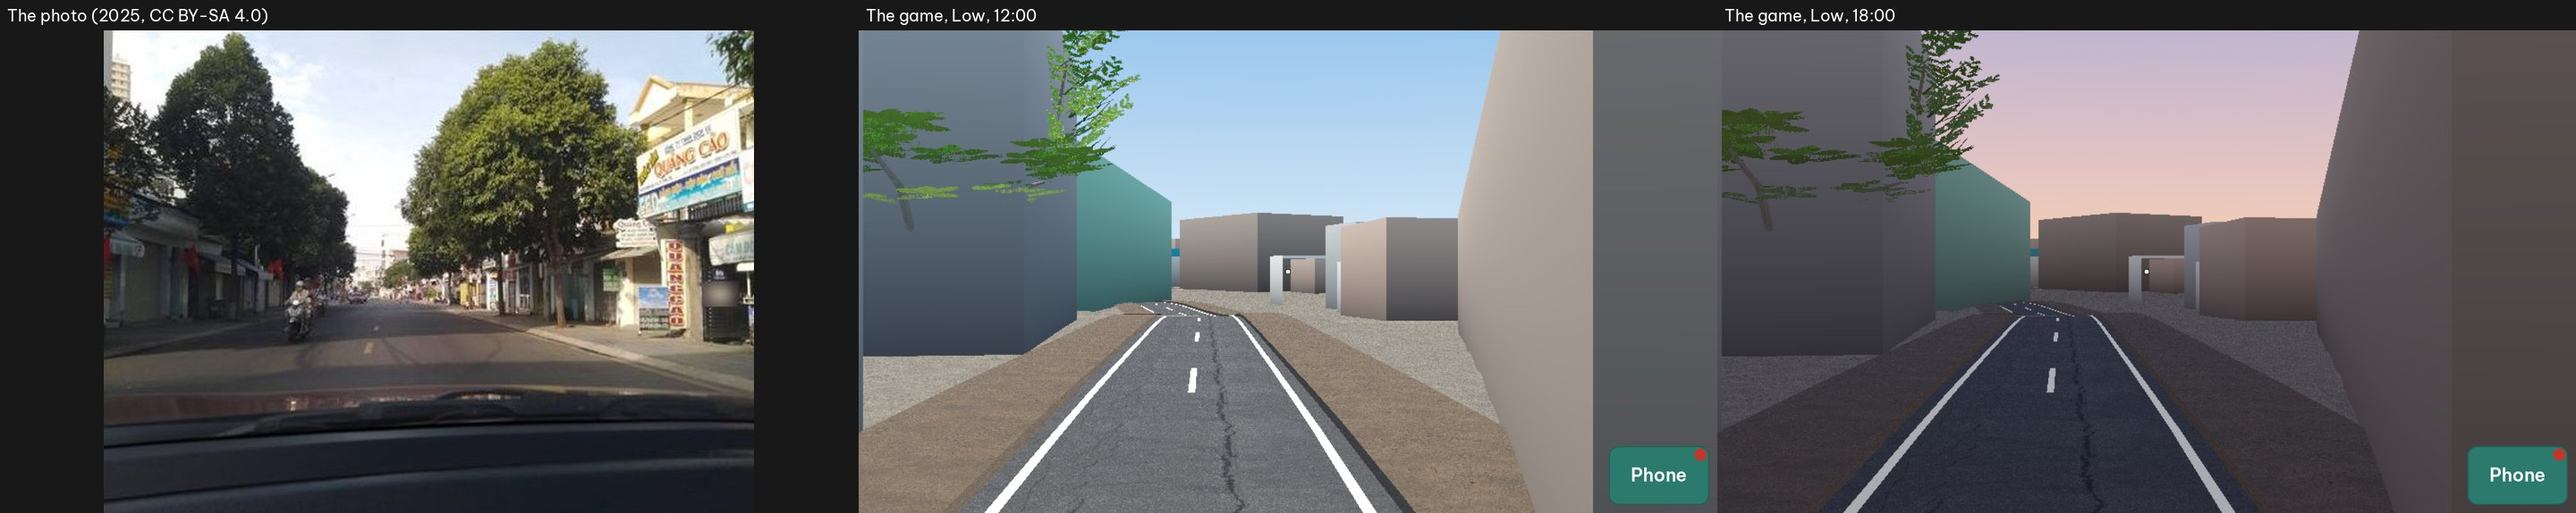
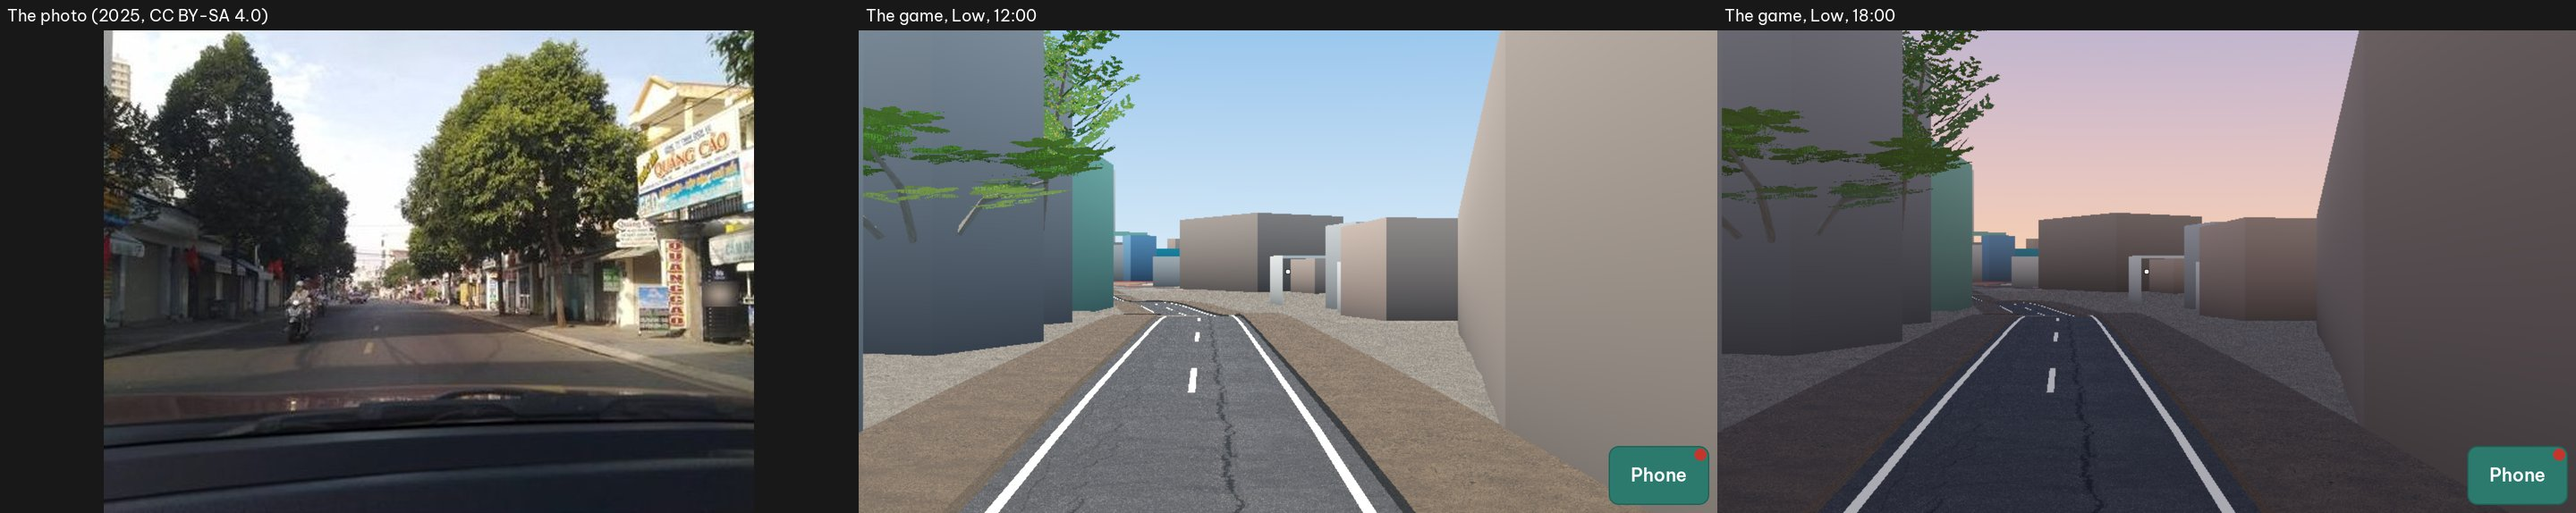
Write the notes of the first part of phase 3, start the web page of Trương Công Định along the street, and make the views of PT-68 again
- data/geo/starts.json: a start can name its OSM way; the start of Trương
  Công Định is the middle of its first way, along the street (it looked at
  the front of a house at a few meters).
- Plan 0009: the builder notes of R16 (the URLs, the pack, the times, the
  memory, the proposed cuts, and the warning of the engine), D-0009-27,
  D-0009-28 (open), the houses of the first street, and World plan 0020.
- AGENTS.md: the houses of World on the streets and PT-79; the warning of
  the web engine on occlusion culling comes at its start.

diff --git a/docs/plans/0009-houses-on-the-lots.md b/docs/plans/0009-houses-on-the-lots.md
@@ -2,7 +2,7 @@
 
 | Field | Value |
 |---|---|
-| Status | In progress: phases 1a, 1b, and 2 are done (2026-11-21), and the corrections of audits 4 and 5 (2026-11-22); phase 3 waits for my look at the views of PT-68 (`docs/town/`) and the five shots (`docs/showcase/`). Open: the value of the land of `nui_nho_north` in PT-33 run 2 (Q11, the builder notes of audit 5). Approved (2026-11-16). Changed (2026-11-18): all the sources of the data (section 3, "The sources"; D9 to D11, R1, R5 to R5e, Q1, Q5 to Q7). Changed (2026-11-21): the whole town first, not the area of plan 0026 first (section 5). |
+| Status | In progress: phases 1a, 1b, and 2 are done (2026-11-21), and the corrections of audits 4 and 5 (2026-11-22). Phase 3 started (2026-11-23): R16 (the web build on Cloudflare), D-0009-27, and the houses of the first street (Trương Công Định); the work stops after the first street for my look. D-0009-28 stays open. Open: the value of the land of `nui_nho_north` in PT-33 run 2 (Q11, the builder notes of audit 5). Approved (2026-11-16). Changed (2026-11-18): all the sources of the data (section 3, "The sources"; D9 to D11, R1, R5 to R5e, Q1, Q5 to Q7). Changed (2026-11-21): the whole town first, not the area of plan 0026 first (section 5). |
 | Branch | `feat/0009-houses-on-the-lots` |
 | Depends on | 0004 (the house kit and the palette), 0005 (the roads and the ground), 0008 (the known places stay as they are), 0023 (the houses come from World, D8). |
 | Used by | 0010 (the bus ride), 0011 to 0015 (the shops and the streets), 0021 (Tết), 0022 (the garden). |
@@ -282,3 +282,14 @@ Each source of the data of this plan, also the ones that the plan does not use, 
   - **D-0009-26 (the cart of the test hẻm).** In soak run 2, the cart `mia` came at its hour (10:00) to the place where the player stood, and the player was in its solid. Now a cart waits while the player stands in its place (`Hem.player_at`, `_stands_in()`: the box shapes of the cart, grown by the radius of the player), and comes when the player goes. The last run of the soak starts in the hẻm, 3 m from the cart (a setup step: in CI at 2400×1080 the random taps of the run ended on the beach), walks into the box of the cart before 10:00 (near its front: in CI the player stopped at the step of the house, 0.6 m short of the middle, and the step failed there), waits to 10:00 (no overlap, no cart), walks away, and checks at 10:01 that the cart is there with no overlap. Without the correction the step failed. It passes also with `PLAYTEST_MAX_FPS=3`.
   - **Q12.** The rule is in section 5, phase 3. Nothing is built for it now.
   - **The views and the shots.** The views of PT-68 and their photos are in `docs/town/`; the five shots of plan 0026 are in `docs/showcase/` (PT-72, each run made one at a time, then the run of the sheets: all pass). S3: 12 boxes of the town show behind Cảng vụ (7 before: the boxes of the raster at Trương Công Định). S1 (Q8, open): at 12:00 on Low the saturation of the hill is 0.05 from the photo, as in audit 4, and on High the color patches of the hill are 0.023 at 17:10 and 0.018 at 12:00 (at least 0.025); the other values of the hill are in their limits. The work stops here: you look at the views before phase 3.
+
+- **Phase 3, part 1 (2026-11-23; report 0009, section 10.5a).**
+  - **R16, the web build on Cloudflare.** `tools/web/deploy.sh` (from the workspace, with `wrangler` 4.166.0 and the token of the workspace; the repository has no secret of Cloudflare) puts `index.pck` and `index.wasm` in the R2 bucket `vung-tau` (`builds/COMMIT/`) and the small files as the static assets of the Worker `vung-tau`: `main` at https://vung-tau.fifo.workers.dev, this branch at https://feat-0009-houses-on-the-lots-vung-tau.fifo.workers.dev. Only the Worker `vung-tau` and its bucket changed. `wrangler r2 object put` takes at most 300 MiB, and the pack of the branch is 321 MB: a file of more than 250 MiB goes in parts, and the Worker gives the parts as one file with the whole length (the same SHA-256). The URL parameters: `world=hem`, `start=hem|bai_truoc|cho_xom_luoi|truong_cong_dinh` (`data/geo/starts.json`), `debug`. `node tools/web/check.js URL OUT` opens the page in Chromium (Playwright, WebGL 2 with SwiftShader).
+    - The pack of the branch (321.1 MB): `.godot/imported` 278.6 MB (the scenes of the models of World 227.5 MB: the buildings near 78.6, mid 14.8, far 1.7; the people mid 57.7, far 35.7; the other things near 29.4, mid 7.1, far 2.5; the textures 49.6 MB, 83 files with no VRAM compression: the texture sets of the showcase 34.6 MB and the impostors of the trees; the voices 1.2 MB), `data` 40.8 MB (`data/geo/build` 34.5 MB of JSON, `data/geo/raw` 4.4 MB that the game does not read), the code and the scenes 0.8 MB. `index.wasm` 39.5 MB.
+    - In Chromium of the workspace, from Cloudflare: the page in 1.0 s to 1.5 s, the first frame of the world in 29 s to 30 s, the ground of the start ready in 81 s to 85 s (from a local server: 18.8 s and 42 s); the pack comes in about 7 s here (47 MB/s). The memory of the page at the first frame: 1.13 GB to 1.25 GB (the JS heap 610 MB to 637 MB: the pack and the heap of the engine), and 0.65 GB to 0.78 GB in the GPU process (SwiftShader).
+    - Proposed cuts (not made: each one changes the web build): the near levels of the buildings of World (78.6 MB; on Low a building of World loads no near level, D6), a web preset that keeps only the files of its presets; the files of the people (93.4 MB: each person has its own pictures of about 0.85 MB; World could share them, or the far level could be a card); `data/geo/raw` (4.4 MB, an export filter); the JSON of `data/geo/build` gives about five times less to download with Brotli (the memory stays). The textures for desktop and for mobile are not two copies here: the pack has no VRAM-compressed texture.
+    - Each page writes "WARNING: Occlusion culling is disabled at build-time." through `console.error` at the start of the engine, before a script of the game runs: the engine of 4.7.2 writes it on each web build (also `main`), with or without occluders.
+  - **D-0009-27 (the boxes of the raster on roads).** The test first: no box of the raster in the built town has more than 10 % of its area on a road (`tools/geo/tests/test_town.py`): 34 failed. The town makes each outline a valid polygon before it simplifies it (473 rectangles before, 152 now), and cuts the surfaces of the roads after the simplification, until the road takes less than 1 % (a cut box keeps up to 24 points): the boxes of the raster cover 35.3 ha, not 47.0 ha. PT-68 and PT-72 S3 pass (S3: 7 boxes behind Cảng vụ with the houses of the street).
+  - **D-0009-28 (open).** The soak writes the clock and the height 10 frames later when it finds the player off the floor; no run gave the facts yet.
+  - **The houses of the first street (R7 to R9, Q12).** Trương Công Định, from Quang Trung at Cảng vụ toward chợ Xóm Lưới (240 m, `data/geo/streets.json`): 63 houses, 18 on the boxes of the data (Source) and 45 on the free fronts by the rule of Q12 (Check); no box of the raster is on this part of the street. The models are the tube houses of the catalog of World at the commit of the lock (`nha_ong_4x16`, `nha_ong_cu_4x18`, `nha_ong_5x20`). Each lot of Q12 has the ids of the nearest street photos of Mapillary (the photos of this part are of 2018, 2024, and 2025), and five photo points of the street are in `data/showcase/photo_points.json` for the sheets of the workflow "Street photos". The player walks on the sidewalk and stops at a front (PT-79 `street_houses`, three runs). PT-79 on Low: 268 to 479 draw calls, 145 152 to 223 417 triangles, 735 MB to 738 MB; PT-69 and PT-73 hold (PT-73 S3: 470 draw calls, a margin of 130). The houses use the set of materials `house` (R7a): the walls take the paint of the palette by the id of the lot. Not made yet: the shops of the ground floor, the parts at the ports (R7: AC units, signs, number plates), the level ground and the step (R8), and the occluders (R9).
+  - **World plan 0020 (the tint of each copy, `_FINISH`).** It is still a draft on `main` of World (2026-11-23), with neither step on `main`: nothing is made for it here.

diff --git a/AGENTS.md b/AGENTS.md
@@ -124,7 +124,7 @@ Verified in the development workspace (Linux, 2 CPUs, no GPU, no Vulkan):
 - A visibility range is for a node. A `MultiMeshInstance3D` shows or hides all its instances at one distance. So a row of models of World (`WorldRow`) is in cells of 6 m.
 - The public bucket of Overture Maps (`overturemaps-us-west-2.s3.us-west-2.amazonaws.com`) answered from the workspace on 2026-11-17 (plan 0009, D2: not on 2026-11-05). The S3 list API (`?list-type=2`) gives the files of a release, and DuckDB reads the parquet files over HTTPS with `http_proxy` and `ca_cert_file` set. An `s3://` URL fails with 403: the proxy adds credentials to it.
 - Godot 4.7.2, the Mobile renderer, with an empty shader cache (each part of CI, and the first start on a computer): the game can stop for good (all threads wait, no CPU use; the CI of `308cbc2`, report 0026). A thread that needs a shader whose variants still compile (`ShaderRD::version_get_shader()`) waits for them while it holds the global `SceneShaderForwardMobile::singleton_mutex`; each pipeline task of the worker threads (`_create_pipeline`) takes that mutex first, and the compile tasks wait behind the pipeline tasks in the queue. With the 4 worker threads of 4 CPUs, a load of models of World near the showcase stopped 3 of 4 runs (gdb on the stopped process: `gdb -p PID -batch -ex "thread apply all bt"`). `project.godot` sets `threading/worker_pool/max_threads=16`: 9 of 9 runs with an empty cache passed. To test with an empty cache, delete `shader_cache` and `vulkan` in `~/.local/share/godot/app_userdata/Vũng Tàu/` before the run.
-- The web build on Cloudflare (plan 0009, R16, 2026-11-23): `wrangler` 4.166.0 reaches the account from the workspace (through the proxy). A static asset of a Worker is at most 25 MiB, and `wrangler r2 object put` takes at most 300 MiB (314 572 800 bytes; the pack of the branch is 321 MB). `tools/web/deploy.sh` puts a file of more than 250 MiB in R2 in parts (`index.pck.part0`, `index.pck.part1`), and `tools/web/worker.js` gives the parts as one file (`FixedLengthStream`, the whole length). The page takes the two large files from `b/COMMIT/` (the `executable` and `mainPack` of `GODOT_CONFIG`), so a cache time of one year never gives an old file. A Worker needs one deploy (`wrangler deploy`) before `wrangler versions upload --preview-alias` works. The web engine has no occlusion culling (`use_occlusion_culling.web=false`: else it writes an error in the console). Headless Chromium draws WebGL 2 with SwiftShader (`--use-angle=swiftshader --enable-unsafe-swiftshader`). The page hides its status box with `visibility: hidden`.
+- The web build on Cloudflare (plan 0009, R16, 2026-11-23): `wrangler` 4.166.0 reaches the account from the workspace (through the proxy). A static asset of a Worker is at most 25 MiB, and `wrangler r2 object put` takes at most 300 MiB (314 572 800 bytes; the pack of the branch is 321 MB). `tools/web/deploy.sh` puts a file of more than 250 MiB in R2 in parts (`index.pck.part0`, `index.pck.part1`), and `tools/web/worker.js` gives the parts as one file (`FixedLengthStream`, the whole length). The page takes the two large files from `b/COMMIT/` (the `executable` and `mainPack` of `GODOT_CONFIG`), so a cache time of one year never gives an old file. A Worker needs one deploy (`wrangler deploy`) before `wrangler versions upload --preview-alias` works. The web engine has no occlusion culling: it writes "WARNING: Occlusion culling is disabled at build-time." in the console (through `console.error`) at its own start, before a script of the game runs, also with `use_occlusion_culling.web=false` and no occluder (the house kit makes none there). Headless Chromium draws WebGL 2 with SwiftShader (`--use-angle=swiftshader --enable-unsafe-swiftshader`). The page hides its status box with `visibility: hidden`.
 - An Ogg stream that still plays when Godot quits is not freed ("resources still in use at exit"). The play-test system stops the voices some frames before it quits (`stop_sounds()` in `scenes/main.gd`).
 
 Commands that work:
@@ -270,6 +270,7 @@ People speak aloud in Vietnamese with subtitles. The player is a traveler with a
 - **PT-33 and the trees of the hills** (report 0009, Q11): `playtests/geo_views.gd` gives the mean value of the land in three parts (the trees, the town, the rest; `VIEW_parts.png`). If a value is out of its limit only because of the trees (in its limit with the tree points at the value of the canopy of the photo, `PHOTO_CANOPY_VALUE`), PT-33 writes the value as open and does not fail until the later pass of the look.
 - **The test of R4 of plan 0023** (report 0009, D-0009-25, Q13): the job "Models of World" compares only the levels that the factory gives. A level that the factory refuses for memory (HTTP 422) goes in the log with its model and the message (`fetch.factory_files(..., refused=)`); any other error fails the test. When World gives the files of its catalog with no build, the test compares all levels again.
 - **A cart of the hẻm** (report 0009, D-0009-26): a cart that comes at its hour waits while the player stands in its place (`Hem.player_at`, `_stands_in()`). The last run of the soak walks to the place of the cart `mia` (the sugarcane juice) before its hour and checks it.
+- **The houses of World on the streets** (phase 3, R7 to R9, Q12): `data/geo/streets.json` lists the streets in the order of the work (the first: Trương Công Định from Quang Trung at Cảng vụ toward chợ Xóm Lưới). `tools/geo/geodata/street_houses.py` (in `build.py`) puts lots on both sides with their fronts at the edge of the road (the sidewalk is in the width of the road): on the boxes of the town on the front (status Source; a box of 1 000 m² or more is a row of lots), and by the rule of Q12 on the free fronts (status Check, with the nearest street photos of Mapillary as their source), never on a road, the water, a place of a model of World, or another building; `data/geo/build/houses.json`. Each lot has a tube house of the catalog of World (`nha_ong_4x16`, `nha_ong_cu_4x18`, `nha_ong_5x20`) by its width class and its id (D4), scaled to the lot. `scenes/world/street_houses.gd` (`VungTau.houses`) puts the near and mid levels in a `WorldRow` (cells of 40 m, the set of materials `house`: the walls take the paint of the palette, and their vertex colors go), sinks each house by the depth of its footing (`WorldModel` puts the lowest point on y = 0), gives each lot a solid box, and past the mid range a box of each lot to the range of the town; the town leaves out its boxes under the lots (`TownField` keep-out). PT-79 `street_houses` walks each sidewalk with the joystick (three runs), takes the screenshots along the street and at the fronts, walks into a front (the house stops the player), and checks the budget of Low.
 - **Play tests**: PT-68 `town_views` (the four views of `data/geo/town_views.json` at 12:00 and 18:00 on Low, each with its open photo when one exists; `python tools/town/sheets.py` puts them in `docs/town/`) and PT-69 `town_budget` (the draw calls, the triangles, and the video memory at the views on Low and High; Low at most 300 000 triangles, R10; at most 600 draw calls on Low and 2 000 on High, report 0009, Q10). PT-68 takes the eye and the direction of each view from its photo (report 0009, D-0009-18; an eye can be in the air, `eye_y`: the cable car over Bạch Dinh), counts the boxes that show, checks that no line shows at the end of the range of the boxes (`nui_nho_top`), compares the town with its photo (the mean value and the share of near-white pixels) and the towers with the towers of the photo (D-0009-24), checks that Bàu Sen shows, that the hills of the mainland of the photos show on the horizon (`hills`, Q14), and that the bus view shows the shops at the street (`near_boxes`, D-0009-22). PT-69 also gives the cost of the mainland. PT-72 S3 counts the boxes that show behind Cảng vụ, along Trương Công Định (D-0009-13); until the later pass of the look the box `hill` of S1 does not fail, and PT-72 writes its values (Q8).
 
 ## 5d. The trees (plan 0020)
